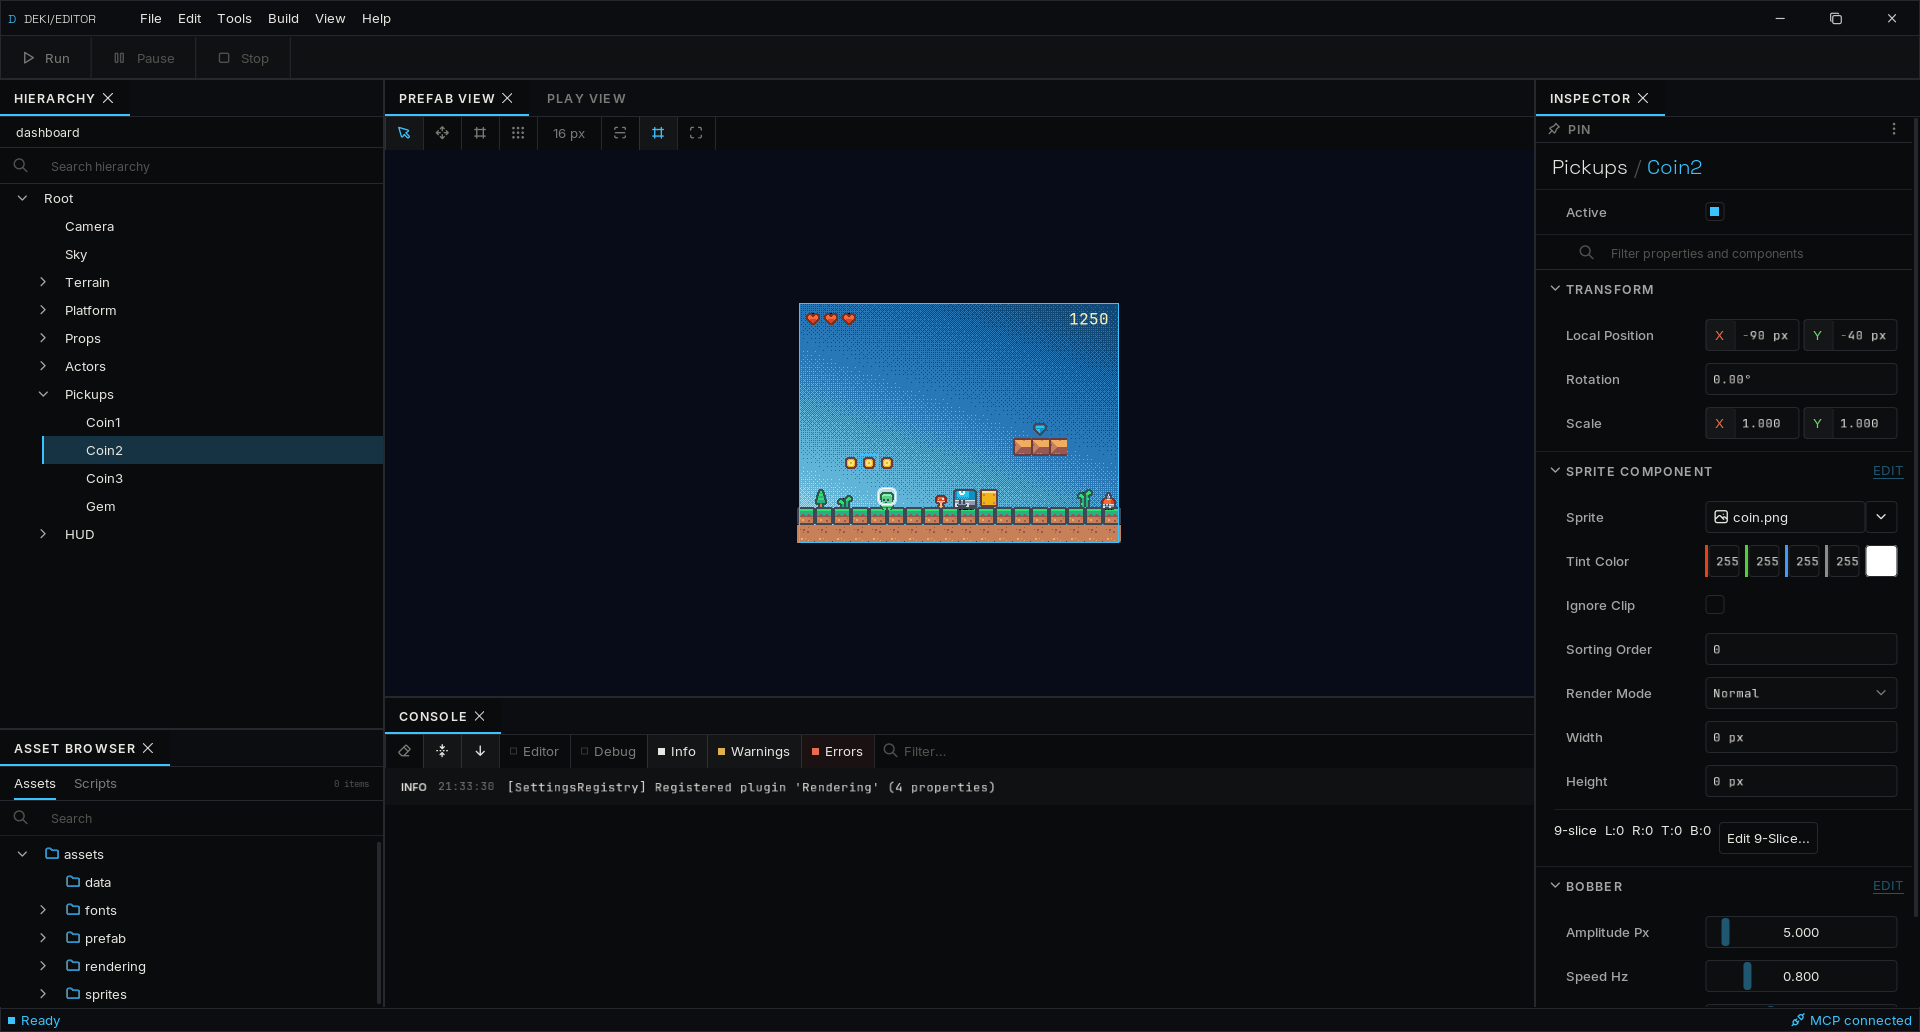
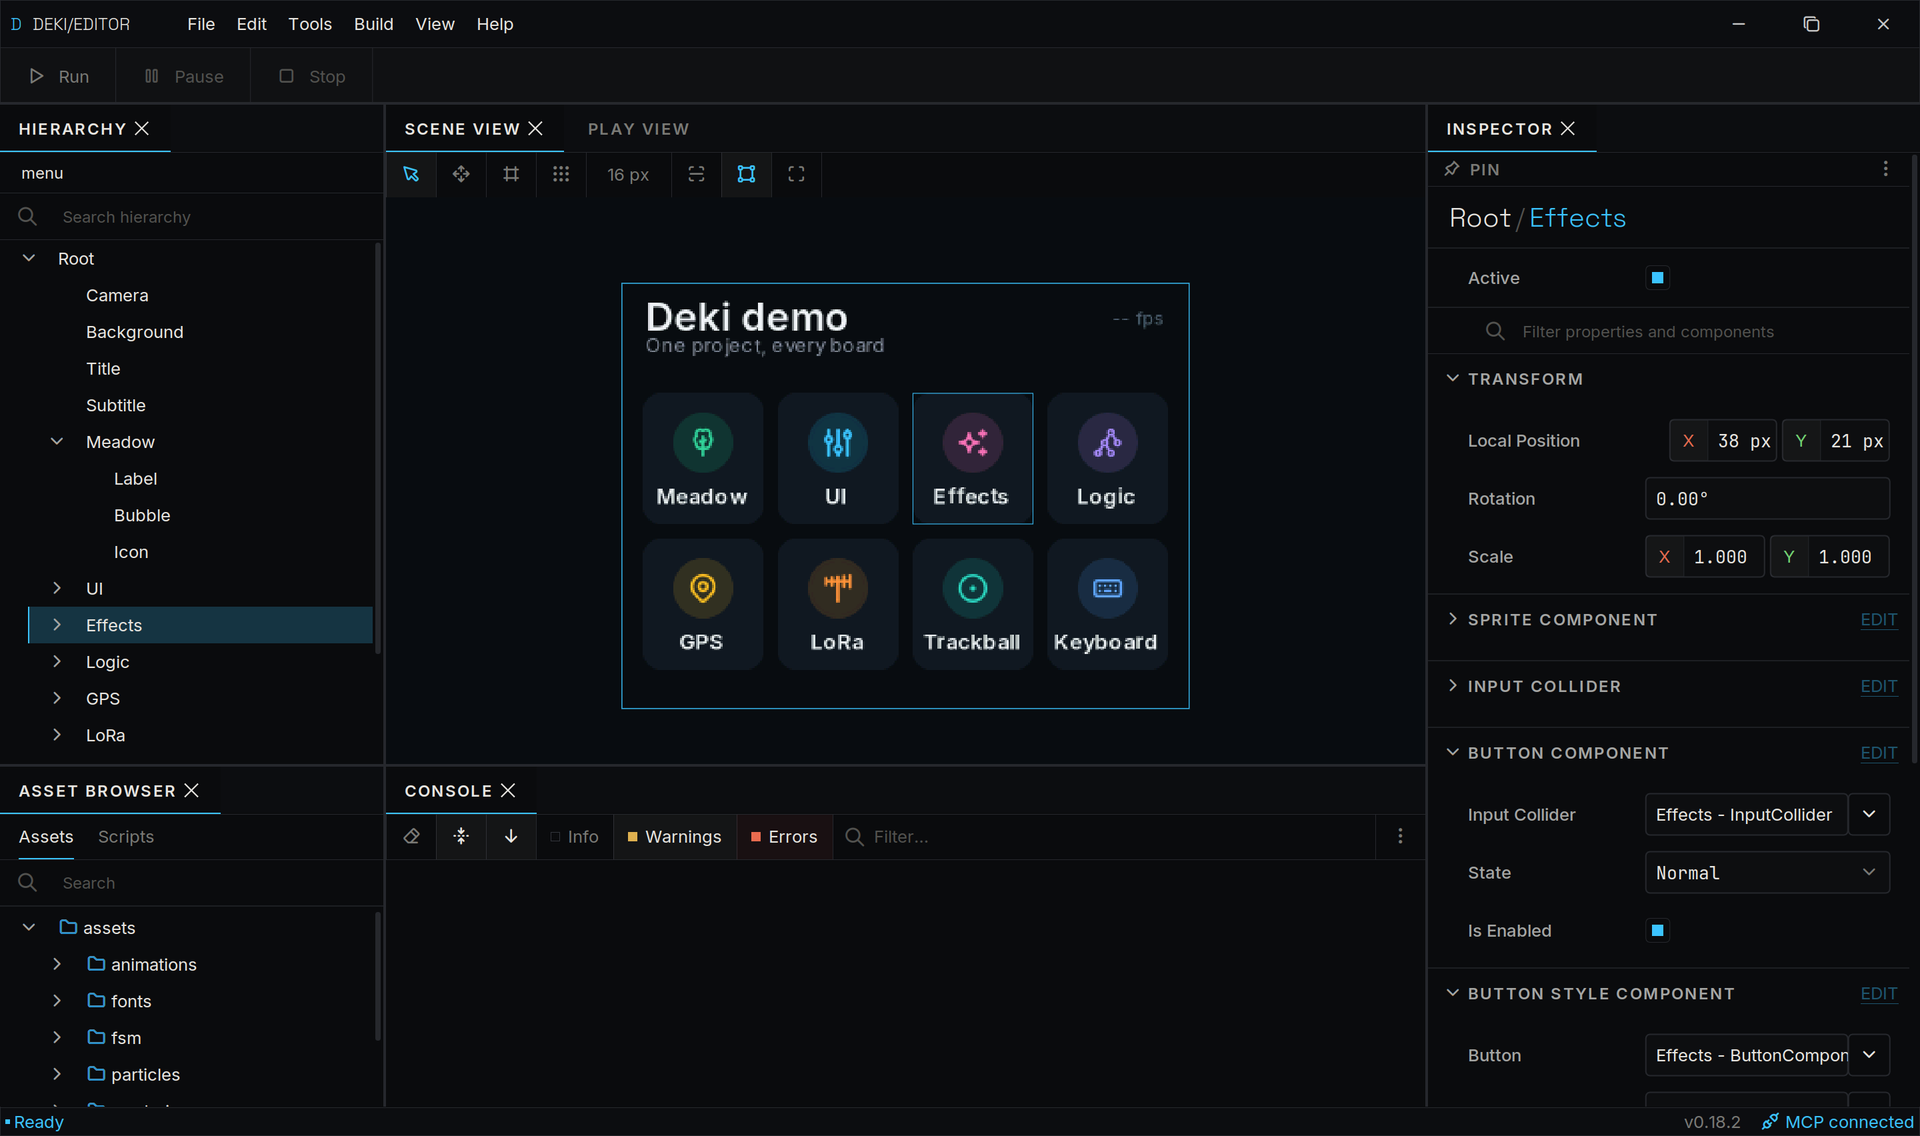
Widened the Inspector in the default layout
At a quarter of the width the vector fields clipped their numbers; the
default and Restore Layout now give it 0.32. The README shows the editor
with the redesigned demo.

diff --git a/src/main.cpp b/src/main.cpp
@@ -61,9 +61,11 @@ static void BuildDefaultDockLayout(ImGuiID dockspaceId, ImVec2 size)
     ImGui::DockBuilderSetNodeSize(dockspaceId, size);
 
     // Columns: left strip, right strip, and whatever is left in the middle.
+    // The Inspector's strip is wide enough that vector fields (X / Y) show
+    // their numbers instead of clipping them.
     ImGuiID dockLeft, dockCenter, dockRight;
     ImGui::DockBuilderSplitNode(dockspaceId, ImGuiDir_Left, 0.20f, &dockLeft, &dockCenter);
-    ImGui::DockBuilderSplitNode(dockCenter, ImGuiDir_Right, 0.25f, &dockRight, &dockCenter);
+    ImGui::DockBuilderSplitNode(dockCenter, ImGuiDir_Right, 0.32f, &dockRight, &dockCenter);
 
     // Height of the bottom row, as a fraction of the dockspace. Both columns
     // are split by this same value so Asset Browser and Console line up: the
